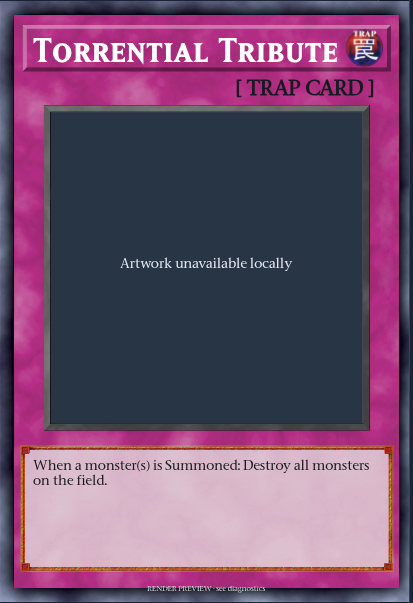
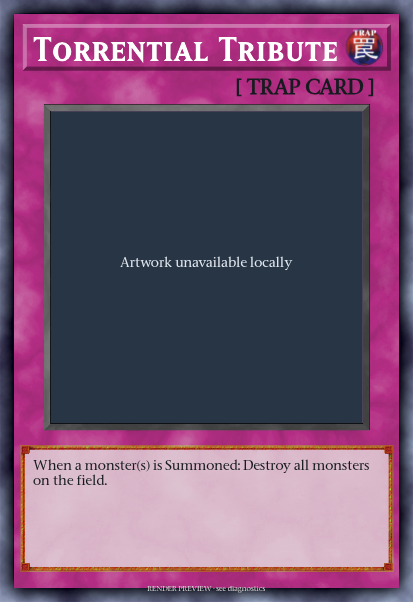
Lighten card-name strokes without changing glyph geometry

diff --git a/platform-design/renderer/README.md b/platform-design/renderer/README.md
@@ -48,7 +48,9 @@ remains a placeholder.
 
 - Names are white for Spell, Trap and Xyz frames, including Xyz Pendulum, and
   black for all other frames, including Link.
-- Names use a taller 80 px size and compress horizontally when necessary.
+- Names use an 80 px small-cap face and compress horizontally when necessary.
+  Their rendered strokes are softened slightly because the bundled font's bold
+  outlines are baked in. Glyph shape, height and spacing stay unchanged.
 - Artwork borders use one neutral gray bevel for all card families. Main text
   boxes share the reference's gold/bronze outline; their pale type-specific
   background textures remain distinct.
